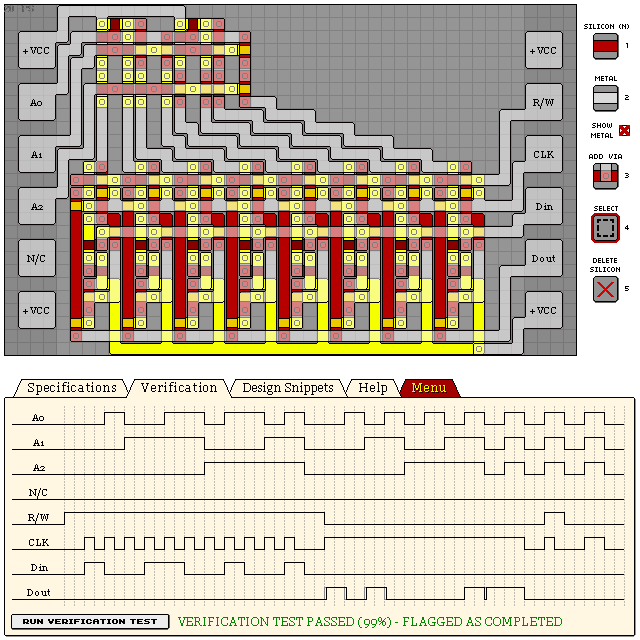
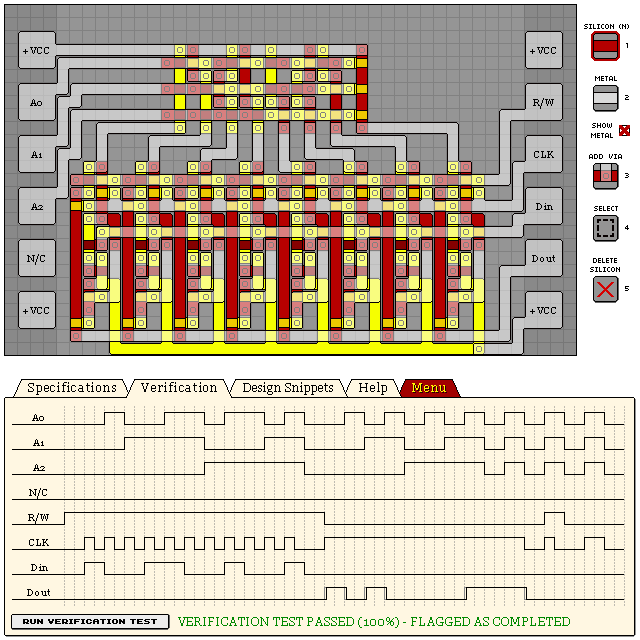
15 KR8S1 100% 1007
The line decoder wasn't even working properly previously

diff --git a/levels/15 KR8S1 8-BIT ADDRESSABLE SRAM.md b/levels/15 KR8S1 8-BIT ADDRESSABLE SRAM.md
@@ -1,27 +1,26 @@
 # KR8S1 - 8-BIT ADDRESSABLE SRAM
 
-- Verification: Passed (99%)
-- Design Score: 1009
+- Verification: Passed (100%)
+- Design Score: 1007
 
 ```
[17 lines of base64/hex data omitted]
-XD3MermujrLXRiRS53811dAC
[16 lines of base64/hex data omitted]
+gI9w5Tx3o5/BxlfkVeOLa7i4hqv/tdBb6+oo+/qI5Bz/AFF00Co=
 ```
 
 ![15 KR8S1 8-BIT ADDRESSABLE SRAM](./assets/15.png)
